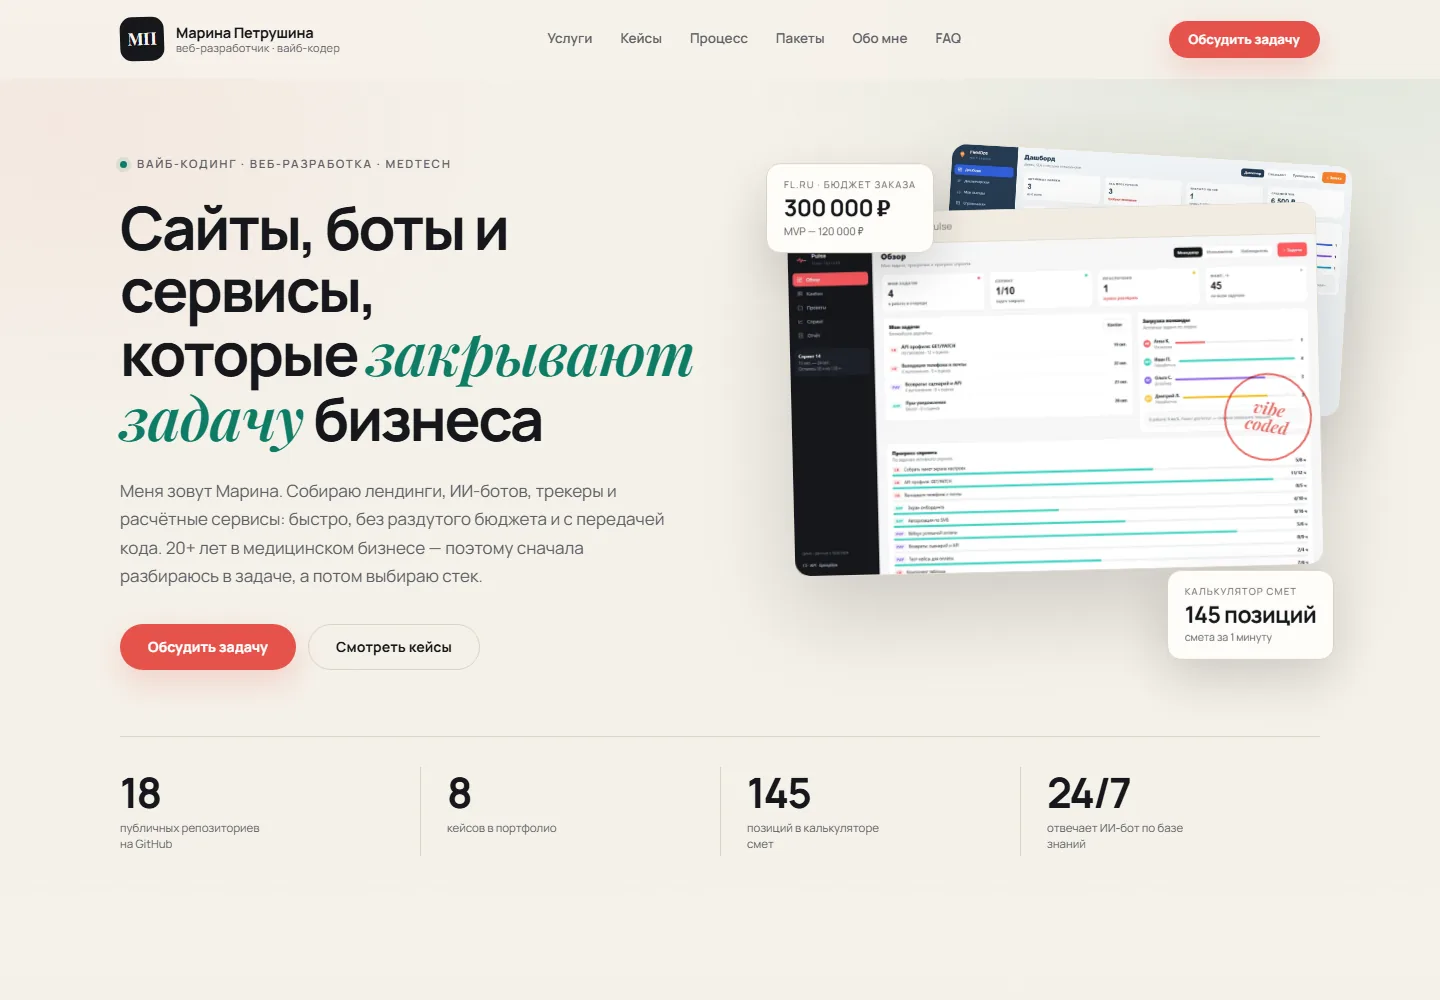
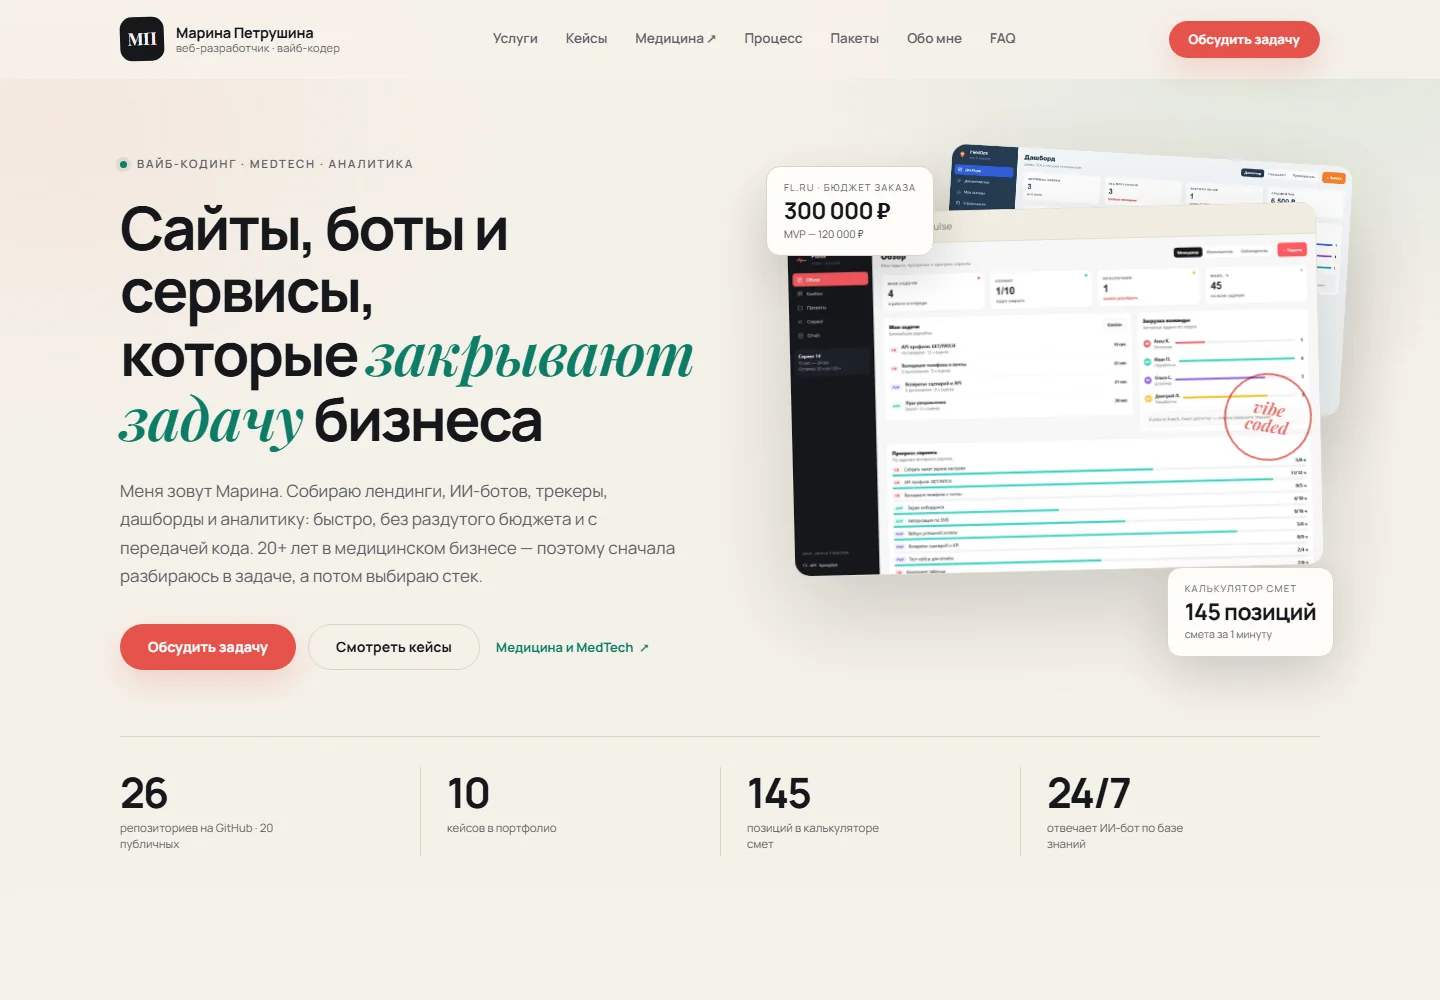
Update repo counters to 26 total / 20 public and refresh screenshots

diff --git a/index.html b/index.html
@@ -114,7 +114,7 @@
 
     <div class="container">
       <ul class="stats">
-        <li><strong data-count="25">25</strong><span>репозиториев на GitHub · 19 публичных</span></li>
+        <li><strong data-count="26">26</strong><span>репозиториев на GitHub · 20 публичных</span></li>
         <li><strong data-count="10">10</strong><span>кейсов в портфолио</span></li>
         <li><strong data-count="145">145</strong><span>позиций в калькуляторе смет</span></li>
         <li><strong>24/7</strong><span>отвечает ИИ-бот по базе знаний</span></li>
@@ -459,7 +459,7 @@
         </article>
       </div>
 
-      <p class="cases-note">Все проекты — с открытым кодом и демо. Полный список: <a href="https://github.com/Mary-RND?tab=repositories" target="_blank" rel="noopener">github.com/Mary-RND</a> · 25 репозиториев, 19 публичных.</p>
+      <p class="cases-note">Все проекты — с открытым кодом и демо. Полный список: <a href="https://github.com/Mary-RND?tab=repositories" target="_blank" rel="noopener">github.com/Mary-RND</a> · 26 репозиториев, 20 публичных.</p>
     </div>
   </section>
 

diff --git a/README.md b/README.md
@@ -20,7 +20,7 @@
 ## Что внутри
 
 - Светлый editorial-дизайн: кремовый фон, графит, изумруд и коралловый CTA.
-- 8 кейсов с фильтрами по категориям: сайты, трекеры, автоматизация, MedTech.
+- 10 кейсов с фильтрами по категориям: сайты, дашборды, автоматизация, MedTech, аналитика.
 - Карточки кейсов с задачей, решением, стеком, сроком и ценой.
 - Модальные окна с подробным разбором каждого кейса.
 - Блок услуг и пакетов «База» / «База+».
